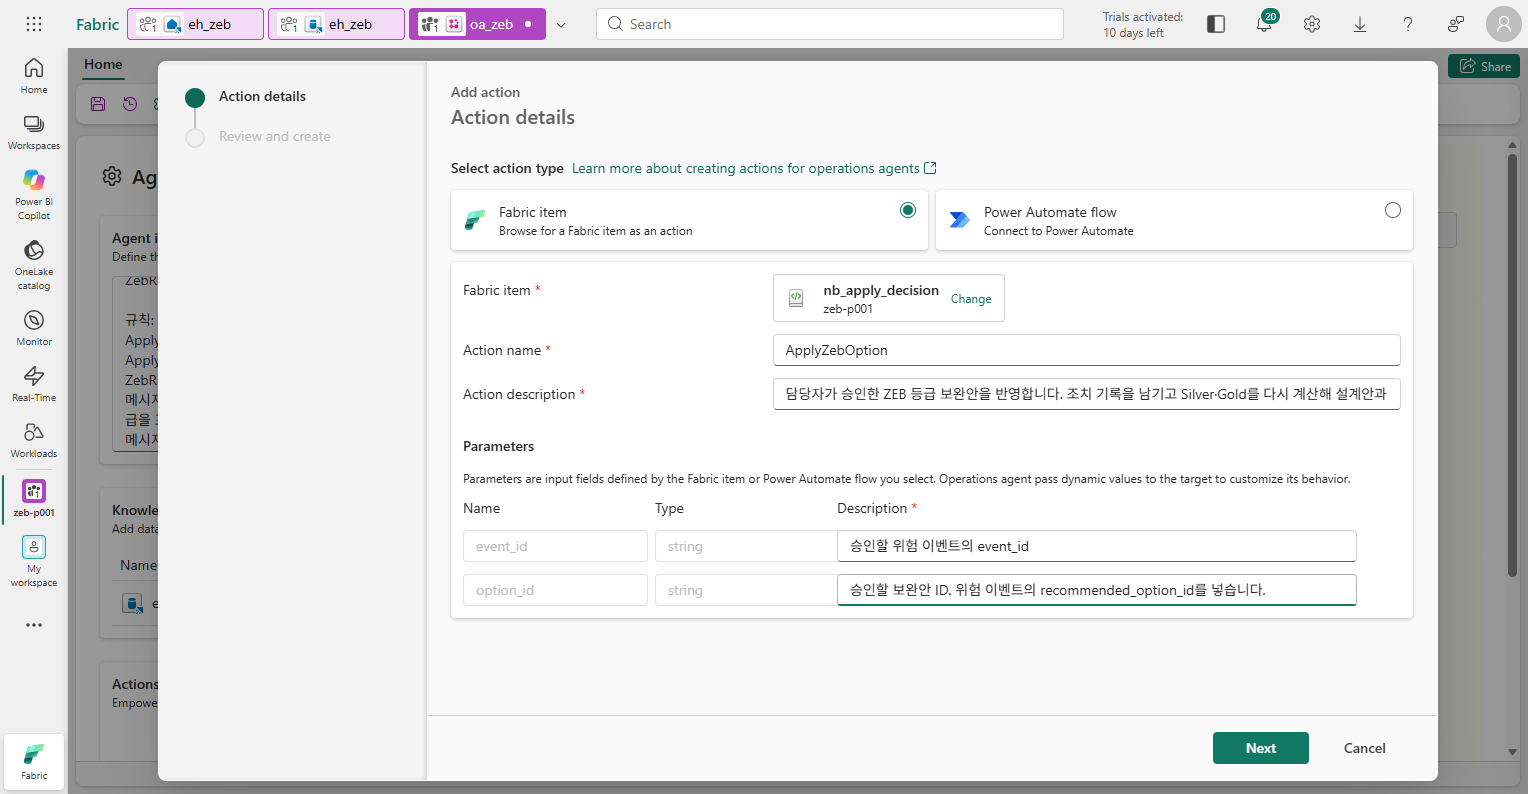
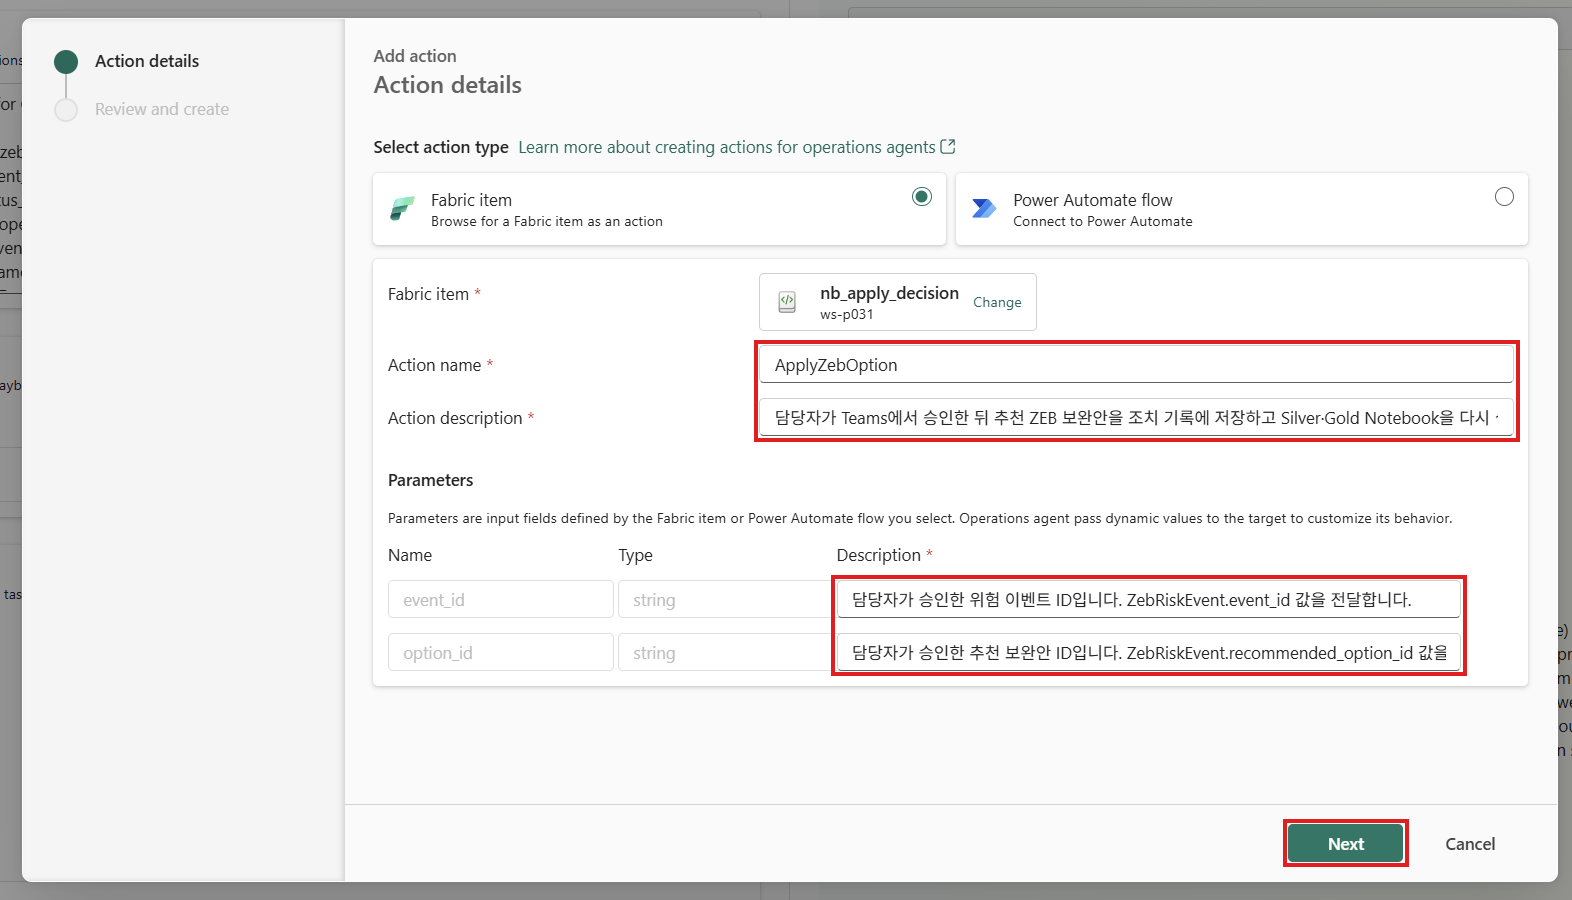
Show current action details screenshot before the input reference table

diff --git a/docs/09-operations-agent.md b/docs/09-operations-agent.md
@@ -138,14 +138,14 @@ Operations agent가 감시하는 것은 Lakehouse가 아니라 Eventhouse의 `Ze
 
 5.  아래와 같이 입력하고 Next를 누릅니다. Action name은 영어로, Action description과 매개 변수 Description은 한국어로 입력합니다. Parameters의 `event_id`, `option_id`는 Notebook의 parameters 셀에서 자동으로 채워지므로 이름은 바꾸지 않고 Description만 입력합니다.
 
+    <img src="../assets/screenshots/d10-oa-action.png" width="1000" alt="Add action의 Action details. Fabric item nb_apply_decision, Action name ApplyZebOption, Action description과 두 매개 변수 Description이 한국어로 입력된 화면" />
+
     | 입력란 | 값 |
     |---|---|
     | Action name | `ApplyZebOption` |
     | Action description | `담당자가 Teams에서 승인한 뒤 추천 ZEB 보완안을 조치 기록에 저장하고 Silver·Gold Notebook을 다시 실행해 실습 데이터의 설계안과 예상 등급을 갱신합니다. ZebRiskEvent에 approved(승인) 상태를 추가하고, 재계산 후 위험이 해소되면 resolved(해소) 상태를 추가합니다. 실제 설계 변경이나 발주는 하지 않습니다.` |
     | `event_id`의 Description | `담당자가 승인한 위험 이벤트 ID입니다. ZebRiskEvent.event_id 값을 전달합니다.` |
     | `option_id`의 Description | `담당자가 승인한 추천 보완안 ID입니다. ZebRiskEvent.recommended_option_id 값을 전달합니다.` |
-
-    <img src="../assets/screenshots/d10-oa-action.png" width="1000" alt="Add action의 Action details. Fabric item nb_apply_decision, Action name ApplyZebOption, Parameters event_id와 option_id에 설명이 입력된 화면" />
 
 6.  Review and create에서 Action type이 `Notebook`, Item name이 `nb_apply_decision`, Workspace가 본인 작업 영역이고 Parameters가 2개인지 확인한 뒤 Create를 누릅니다.
 
